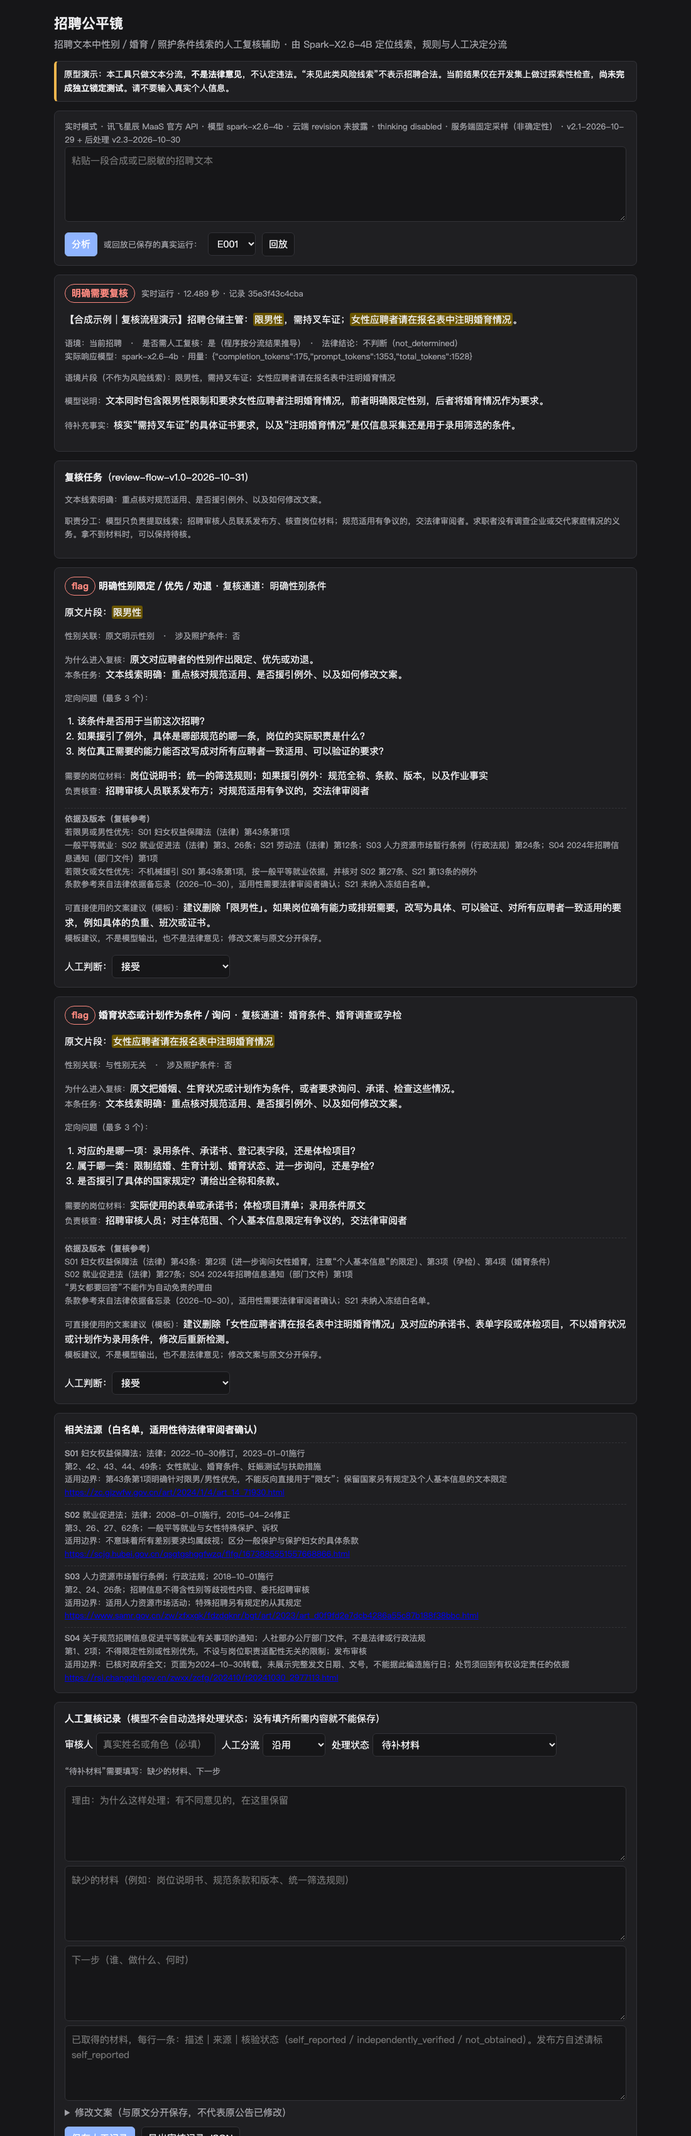
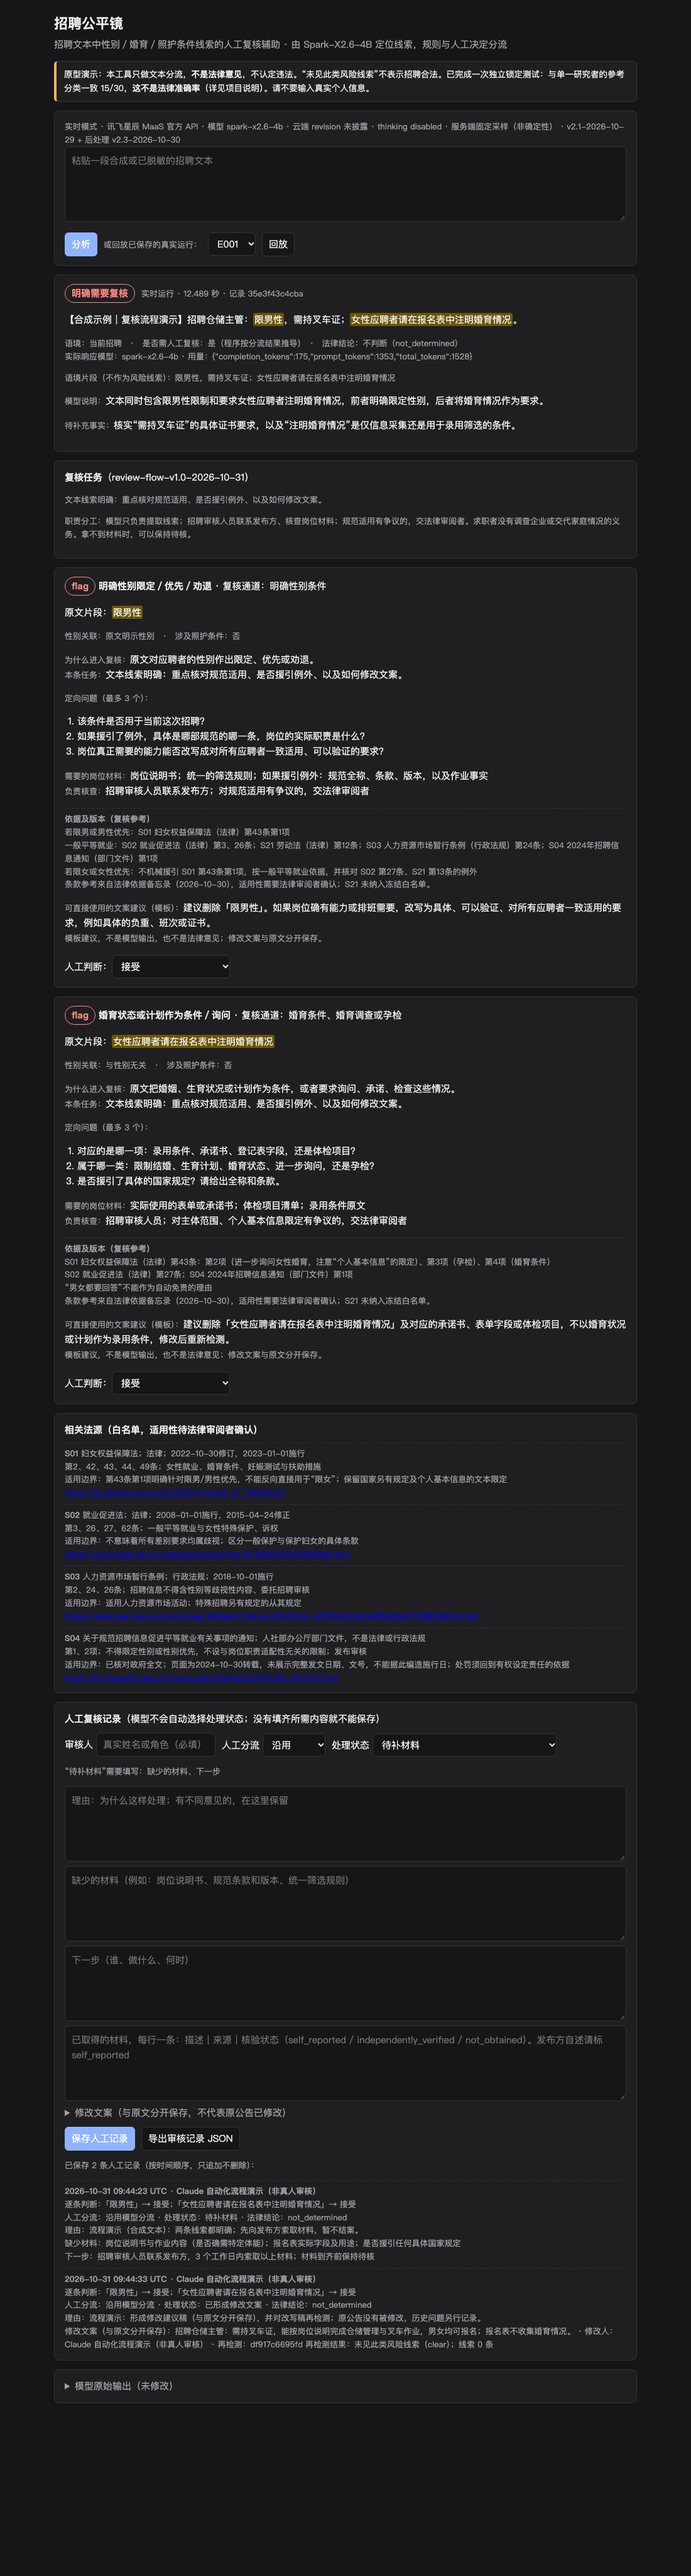
Publish locked-test aggregate results
One-shot locked test on 30 new synthetic cases: 15/30 agreement overall, 0/12 on
the pre-marked disputed cases, 15/18 on the rest, 2 network failures counted in the
denominator; baselines A 10/30, B 13/30. Agreement is with one undergraduate law
researcher's reference with GPT-assisted supporting fields; not legal accuracy.
Case texts, per-case reference labels and dispute records are not published.
Inference, triage and scoring unchanged since the freeze.

Changed region(s): [[0.0618, 0.0, 0.8964, 1.0], [0.6182, 0.5612, 0.68, 0.5924], [0.6182, 0.9041, 0.6491, 0.9353]]

diff --git a/mvp/index.html b/mvp/index.html
@@ -28,7 +28,7 @@ details summary{cursor:pointer;color:var(--muted)}ol{padding-left:20px}
 <main>
 <h1>招聘公平镜</h1>
 <p class="sub">招聘文本中性别／婚育／照护条件线索的人工复核辅助 · 由 Spark-X2.6-4B 定位线索，规则与人工决定分流</p>
-<div class="banner">原型演示：本工具只做文本分流，<b>不是法律意见</b>，不认定违法。“未见此类风险线索”不表示招聘合法。当前结果仅在开发集上做过探索性检查，<b>尚未完成独立锁定测试</b>。请不要输入真实个人信息。</div>
+<div class="banner">原型演示：本工具只做文本分流，<b>不是法律意见</b>，不认定违法。“未见此类风险线索”不表示招聘合法。已完成一次独立锁定测试：与单一研究者的参考分类一致 15/30，<b>这不是法律准确率</b>（详见项目说明）。请不要输入真实个人信息。</div>
 
 <div class="card">
   <div id="mode" class="k">连接中…</div>

diff --git a/scripts/score_locked_test.py b/scripts/score_locked_test.py
@@ -1,0 +1,90 @@
+"""Score the sealed locked-test predictions (protocol docs_v5/LOCKED_TEST_SCORING_PROTOCOL.md v1.1). No model is called.
+
+Inputs: outputs_locked/ (sealed, verified first), docs_v5/private/gold/ (reference labels, private).
+Outputs: docs_v5/private/locked_eval/. Labels are copied without change; the frozen evaluator is reused as is.
+"""
+import csv
+import hashlib
+import json
+import subprocess
+import sys
+from pathlib import Path
+
+ROOT = Path(__file__).resolve().parents[1]
+sys.path.insert(0, str(ROOT))
+from scripts.evaluate_v2 import evaluate, read_jsonl  # noqa: E402
+
+GOLD = ROOT / "docs_v5/private/gold"
+OUT = ROOT / "docs_v5/private/locked_eval"
+LOCKED = ROOT / "outputs_locked"
+SRC = "single_undergraduate_law_researcher_reference_supporting_fields_gpt_assisted"
+DISPUTED = {f"S4-{n:03d}" for n in (1, 3, 10, 11, 13, 17, 20, 22, 25, 26, 28, 29)}  # EVALUATION_POLICY.md
+
+
+def main():
+    subprocess.run([sys.executable, str(ROOT / "scripts/verify_seal.py")], check=True)
+    OUT.mkdir(parents=True, exist_ok=True)
+    gold = list(csv.DictReader(open(GOLD / "locked_gold.csv", encoding="utf-8-sig", newline="")))
+    prov = {p["case_id"]: p for p in json.loads((GOLD / "LABEL_PROVENANCE.json").read_text(encoding="utf-8"))}
+    cases = read_jsonl(LOCKED / "locked_inputs_normalised.jsonl")
+    ids = {c["id"] for c in cases}
+    assert {g["case_id"] for g in gold} == ids and len(gold) == 30, "case_id mismatch"
+    assert {k for k, p in prov.items() if p["disputed"]} == DISPUTED, "policy vs provenance disagree on disputed ids"
+    labels = []
+    for g in gold:
+        care, sex = g["care_condition"] == "true", g["sex_link"]
+        labels.append({"id": g["case_id"], "triage": g["triage"], "review_reason": g["review_reason"], "scope": g["scope"],
+                       "sex_link": sex, "care_condition": care, "risk_quotes": json.loads(g["risk_quotes"]),
+                       "slice": "care" if care and sex == "unestablished" else None,
+                       "disputed": g["case_id"] in DISPUTED, "original_human_triage": prov[g["case_id"]]["original_human_triage"],
+                       "label_source": SRC})
+    (OUT / "labels_converted.jsonl").write_text("".join(json.dumps(x, ensure_ascii=False) + "\n" for x in labels), encoding="utf-8")
+    systems = {"spark": (read_jsonl(LOCKED / "spark_maas/records.jsonl"), False),
+               "baselineA": (read_jsonl(LOCKED / "baselineA/predictions.jsonl"), True),
+               "baselineB": (read_jsonl(LOCKED / "baselineB/records.jsonl"), False)}
+    lat = [r["end_to_end_s"] for r in read_jsonl(LOCKED / "spark_maas/raw.jsonl") if r.get("end_to_end_s") is not None]
+    groups = {"all30": lambda l: True, "disputed12": lambda l: l["disputed"], "other18": lambda l: not l["disputed"]}
+    res = {}
+    for sysname, (preds, legacy) in systems.items():
+        for gname, sel in groups.items():
+            sub = [l for l in labels if sel(l)]
+            ids_sub = {l["id"] for l in sub}
+            rep = evaluate([c for c in cases if c["id"] in ids_sub], sub, [p for p in preds if p["id"] in ids_sub], SRC, legacy,
+                           lat if sysname == "spark" and gname == "all30" else None)
+            res[(sysname, gname)] = rep
+            (OUT / f"eval_{sysname}_{gname}.json").write_text(json.dumps(rep, ensure_ascii=False, indent=1), encoding="utf-8")
+    # case table: separates agreement, network failure, invalid JSON, and disagreement on disputed / undisputed items
+    raw = {r["id"]: r for r in read_jsonl(LOCKED / "spark_maas/raw.jsonl")}
+    pred = {r["id"]: r for r in read_jsonl(LOCKED / "spark_maas/predictions.jsonl")}
+    rec = {r["id"]: r for r in systems["spark"][0]}
+    a = {r["id"]: r.get("status") for r in systems["baselineA"][0]}
+    b = {r["id"]: r["triage"] for r in systems["baselineB"][0]}
+    rows = []
+    for l in labels:
+        i, d = l["id"], rec[l["id"]]
+        if raw[i].get("error"):
+            cat = "network_failure"
+        elif d["triage"] == "invalid":
+            cat = "invalid_output"
+        elif d["triage"] == l["triage"]:
+            cat = "agree"
+        else:
+            cat = "disagree_disputed" if l["disputed"] else "disagree_undisputed"
+        rows.append({"id": i, "disputed": l["disputed"], "reference": l["triage"], "original_human": l["original_human_triage"],
+                     "reference_reason": l["review_reason"], "spark": d["triage"], "spark_reasons": d.get("all_review_reasons"),
+                     "spark_scope": d.get("scope"), "reference_scope": l["scope"], "category": cat, "repairs": pred[i].get("repairs"),
+                     "scope_checks": d.get("scope_checks"), "baselineA": a.get(i), "baselineB": b.get(i), "text": next(c["text"] for c in cases if c["id"] == i),
+                     "spark_quotes": d.get("risk_quotes"), "spark_rationale": d.get("rationale"), "reference_note": prov[i]["note"]})
+    (OUT / "case_table.json").write_text(json.dumps(rows, ensure_ascii=False, indent=1), encoding="utf-8")
+    sums = {p.name: hashlib.sha256(p.read_bytes()).hexdigest() for p in sorted(OUT.glob("*")) if p.suffix in (".json", ".jsonl")}
+    (OUT / "SHA256SUMS.json").write_text(json.dumps(sums, indent=1), encoding="utf-8")
+    # brief
+    for (s, g), r in res.items():
+        m = r["confusion_rows_gold_cols_pred"]
+        agree = sum(m[t][t] for t in ("flag", "review", "clear", "unknown"))
+        q = r["human_review_queue"]
+        print(s, g, f"agree {agree}/{r['n_determinate']}", "valid", round(r["contract_pass_rate"] * r["n_determinate"]), "queue P/R", q["precision"], q["recall"])
+
+
+if __name__ == "__main__":
+    main()

diff --git a/mvp/server.py b/mvp/server.py
@@ -177,7 +177,7 @@ class H(BaseHTTPRequestHandler):
         a["review_cards"] = review_flow.build_cards(a["record"])
         a["sop_care_questions"] = SOP_CARE_QUESTIONS if a["record"].get("care_condition") else []
         a["human_reviews"] = []
-        a["disclaimer"] = "文本分流辅助，不是法律意见；clear 不表示合法；未完成独立锁定测试。"
+        a["disclaimer"] = "文本分流辅助，不是法律意见；clear 不表示合法；一次独立锁定测试与单一研究者参考分类一致 15/30，不是法律准确率。"
         App.analyses[aid] = a
         append("analyses.jsonl", a)
         return self._send(200, a)

diff --git a/README.md b/README.md
@@ -119,7 +119,23 @@ python3 mvp/server.py --replay outputs_v3/maas_v2.1_plus_pp2.3_dev86/records.jso
   - `scripts/run_locked_test.py` 是一次性锁定测试脚本：拒绝带标签的输入，运行后封存预测结果。
 
 ## 8. 结果、证据强度与已知失败
-**以下全部是开发集探索结果，不是法律识别准确率，也不是独立测试成绩。**
+
+### 8.1 独立锁定测试（2026-10-31，已完成）
+**这些数字是与一名法学本科研究者（608）的参考分类的一致率，部分支持字段由 GPT 辅助整理。它们不是法律准确率，也不是律师认证或多专家金标准。**
+
+| 与参考分类一致 | 全部 30 条 | 预先标记的争议 12 条 | 其余 18 条 | 输出有效 |
+|---|---|---|---|---|
+| Spark-X2.6-4B 冻结系统（官方 MaaS API） | **15/30** | **0/12** | **15/18** | 28/30 |
+| 基线 A（原始关键词规则） | 10/30 | 4/12 | 6/18 | 30/30 |
+| 基线 B（修订规则） | 13/30 | 3/12 | 10/18 | 30/30 |
+
+- **2 条网络失败**（没有模型输出）留在分母中，没有重跑。
+- **flag 和 review 存在重要分歧**：参考为 review 的 7 条，系统没有一条判为 review；系统判为 review 的 6 条，参考也都不是 review。
+- 0/12 不能作为认定模型法律判断错误的依据，但也不能全部归因于参考标注：冻结规则把明确线索一律映射为 flag，系统无法表达“文字明确，但仍需先核实”这样的判断，这是系统自身的局限。
+- 流程：评分协议预注册 → 只收到 case_id 和原文 → 运行一次 → 封存预测 → 校验后才打开参考分类。测试之后没有修改系统重测。
+- 测试案例、逐条参考标签和争议记录**未公开**。详见 [docs_v5/LOCKED_TEST_RESULT_SUMMARY.md](docs_v5/LOCKED_TEST_RESULT_SUMMARY.md)。
+
+### 8.2 开发集（探索性，不是法律识别准确率，也不是独立测试成绩）
 
 内部开发集共 86 条合成文本：
 - 50 条原始案例。标签是法学联合研究者授权下的 **AI 辅助研究意见**，没有逐条人工确认。
@@ -141,13 +157,13 @@ python3 mvp/server.py --replay outputs_v3/maas_v2.1_plus_pp2.3_dev86/records.jso
   - “欢迎女性申请”会被误报。
   - 模型偶尔不填写待补充事实。
   - MaaS 随机采样容易导致 JSON 格式错误：原始输出 13/86 无效，修复后剩 1/86。
-- **尚未完成**：独立锁定测试（30 条新合成案例，由 608 出题并给出参考分类；评分协议已在收到测试输入前预注册，见 `docs_v5/LOCKED_TEST_SCORING_PROTOCOL.md`），以及真实用户研究。
+- **尚未完成**：真实用户研究。
 - **原型局限**：没有多人协作和权限；联系发布方需要线下进行；证据只能以文字登记；文案建议是模板；冻结的 source_ids 只细化到法律文件这一级（条款级参考只在复核卡里提供，不参与评分）。
 
 ## 9. 法律工作的三个层次（需要区分清楚）
 1. **已经完成**：法学联合研究者整理了法律依据和法源索引，识别了争议点，提出了标注规则、人工复核流程和照护责任专题意见，并与项目负责人讨论确认了主要规则，例如“照护责任不等于女性”“角色或声部不等于应聘者性别限定”。
 2. **AI 辅助、尚未逐条人工核实**：50 条研究标签是在她授权下由 AI 初审形成的，不是法律专家金标准。
-3. **尚未完成**：独立锁定测试的人工标注和评估。完成后会如实更新。
+3. **独立锁定测试**：已完成一次，608 独立编写 30 条合成案例并给出参考分类（GPT 辅助生成公告、整理支持字段；单一本科研究者参考，没有多专家一致，也没有律师审定）。
 
 ## 10. 公开范围说明
 法学联合研究者（608）**已授权公开**以下内容，本仓库均已包含：
@@ -160,12 +176,12 @@ python3 mvp/server.py --replay outputs_v3/maas_v2.1_plus_pp2.3_dev86/records.jso
 - 50 条 AI 辅助研究标签
 - 16 条回归样例原文
 - 法学研究意见和专题备忘
-- 本轮锁定测试的材料，计划在测试完成、预测封存之后，再评估是否公开
+- 本轮锁定测试的案例、逐条参考标签和争议记录（测试已完成，是否公开由团队另行决定）
 
 仓库中的原始日志是**过滤版**：删除了回归样例所在的行，替换了本机路径，其余内容逐字保留。详见 [RELEASE_NOTE.txt](RELEASE_NOTE.txt) 和 [docs_v4/PUBLIC_PERMISSIONS.md](docs_v4/PUBLIC_PERMISSIONS.md)。
 
 ## 11. 贡献者与 AI 辅助开发披露
-- **项目负责人**：负责产品、AI 技术、工程验收、实验设计与最终提交。
+- **项目负责人（GitHub：[yangmengze608-afk](https://github.com/yangmengze608-afk)）**：负责产品、AI 技术、工程验收、实验设计与最终提交。
 - **法学联合研究者（公开署名：608）**：负责法律依据与法源核实、争议识别、标注规则与分流原则设计、人工复核 SOP、案例分析、法律边界与产品设计讨论，以及独立锁定测试的出题与人工首轮判断。
 - **AI 辅助工具**：
   - Claude Code（Anthropic）编写并运行了工程代码、评估脚本、网页和文档，也执行了 Demo 截图中的流程操作。
@@ -175,7 +191,7 @@ python3 mvp/server.py --replay outputs_v3/maas_v2.1_plus_pp2.3_dev86/records.jso
 ## 12. 目录
 ```
 rfl/            契约与校验（contract_v2）、Prompt（prompt_v2_1）、Provider（providers）、后处理（postprocess_v2_3）
-scripts/        运行（run_provider / run_spark_v2）、评估（evaluate_v2）、冻结、锁定测试、封存校验、打包
+scripts/        运行（run_provider / run_spark_v2）、评估（evaluate_v2）、冻结、锁定测试、封存校验、评分
 mvp/            单页网页（index.html）与本地服务端（server.py）
 baseline/       基线 A（原始关键词规则）、基线 B（修订规则 rules_v2）
 data/ data_v2/  合成开发样本输入（已过滤未授权样例）、法源白名单（已授权）

diff --git a/docs_v5/LOCKED_TEST_RESULT_SUMMARY.md b/docs_v5/LOCKED_TEST_RESULT_SUMMARY.md
@@ -1,0 +1,27 @@
+# 独立锁定测试 · 结果汇总（公开版）
+
+**这些数字是与一名法学本科研究者（608）的参考分类的一致率，部分支持字段由 GPT 辅助整理。它们不是法律准确率，也不是律师认证或多专家金标准。**
+
+测试案例、逐条参考标签和争议记录未公开。
+
+| 与参考分类一致 | 全部 30 条 | 预先标记的争议 12 条 | 其余 18 条 | 输出有效 |
+|---|---|---|---|---|
+| Spark-X2.6-4B 冻结系统（官方 MaaS API） | **15/30** | **0/12** | **15/18** | 28/30 |
+| 基线 A（原始关键词规则） | 10/30 | 4/12 | 6/18 | 30/30 |
+| 基线 B（修订规则，在开发集可见的条件下编写） | 13/30 | 3/12 | 10/18 | 30/30 |
+
+- **2 条网络失败**：连接被重置，没有模型输出。这 2 条留在分母中计为 invalid，没有重跑。
+- **人工复核队列**（TP/FP/FN，非 clear 都算进队列）：Spark 16/5/0，其中 2 条是网络失败转人工，模型实际发现 14/16；基线 A 2/4/14；基线 B 4/3/12。这个指标不是歧视识别率。
+- **flag 和 review 存在重要分歧**：参考为 review 的 7 条，系统没有一条判为 review；系统判为 review 的 6 条，参考也都不是 review。
+
+## 流程
+评分协议在收到测试输入前预注册（`LOCKED_TEST_SCORING_PROTOCOL.md` v1.1）→ 执行方只收到 case_id 和原文 → 冻结系统运行一次 → 封存预测并登记哈希 → 校验之后才打开参考分类。与 86 条开发集精确重复 0 条。测试之后没有修改系统重测。
+
+## 如何理解 0/12
+争议案例不能作为认定模型法律判断错误的依据，但这个结果也不能全部归因于参考标注：
+- 11 条有输出的争议案例上，系统和研究者的判断都不一致。主要分歧有四类：明确限制文字该判 flag 还是 review（5 条）；照护条件是否算复核任务（3 条）；声称例外的条件怎样分流（2 条）；语境暗示（1 条）。另外 1 条是网络失败。
+- **系统自身的局限是真实的**：冻结规则把明确线索一律映射为 flag，系统无法表达“文字明确，但仍需先核实”这样的判断；系统在这批案例上的 review 与参考完全没有重合。如果采用研究者的口径，现有规则需要修改，修改后这 30 条只能算开发集。
+- 哪一方的分流更合适，这次测试没有结论。
+
+## 局限
+只有 30 条合成案例，单次运行，云端采样有随机性。参考来自单一研究者，没有多专家一致，也没有律师审定。没有真实用户研究。

diff --git a/docs_v5/LOCKED_TEST_RUN_RECORD.md b/docs_v5/LOCKED_TEST_RUN_RECORD.md
@@ -1,0 +1,16 @@
+# 锁定测试运行记录（封存阶段）
+
+状态：**预测已封存，尚未打开参考答案，尚未计算任何一致率。**
+
[1 lines of base64/hex data omitted]
+- 与开发集的重复：对照完整 86 条开发集，精确重复 0 条，去空白后重复 0 条。
+- 运行：2026-10-31 12:01:48–12:12:37 UTC，只运行一次。运行前用一条无关的合成文本（PREFLIGHT1）检查过命令链路，这条不属于测试。
+- 冻结系统：Prompt v2.1（`62a40a7f…`）+ 后处理 v2.3 + 契约 v2 + `xfyun_maas` `spark-x2.6-4b`。运行器启动时自动核对冻结哈希，通过。
+- HTTP 请求共 38 次；成功返回的 28 条，响应模型都是 `spark-x2.6-4b`。
+- 重试：S4-006（2 次失败后成功）、S4-011（1 次失败后成功）、S4-030（1 次失败后成功）。
+- **请求失败 2 条**：S4-005、S4-025。三次请求都是网络连接被重置（`URLError: Errno 54 Connection reset by peer`），模型没有返回内容。按评分协议计为 invalid，留在分母中，不重跑。
+- 后处理修复：重复逗号 1 处。
+- 延迟（成功的 28 条）：中位数 7.7 秒，P95 29.8 秒，最长 98.6 秒。这段时间网络明显不稳定。
+- 用量：输入 38,059 token，输出 4,193 token。
[1 lines of base64/hex data omitted]
+- 记录上的局限：失败的 2 条，三次请求的细节只保留了最后一次的错误和总次数（`n_attempts: 3`），没有逐次记录。这是 Provider 的现有行为，冻结后未修改。

diff --git a/docs_v5/LOCKED_TEST_FREEZE_RECORD.md b/docs_v5/LOCKED_TEST_FREEZE_RECORD.md
@@ -11,10 +11,10 @@
[1 lines of base64/hex data omitted]
 | 模型标识和服务版本的可见程度 | 讯飞星辰 MaaS，`spark-x2.6-4b`；每次响应都会核对 `model` 字段；**云端 revision、精度、硬件均未披露** |
 | 参数 | `thinking.type=disabled`，`max_completion_tokens=640`，`stream=false`；服务端固定 T=1、top_p=0.95（结果有随机性） |
-| 调用时间 | 待填（执行时写入 `outputs_locked/spark_maas/run_meta.json`） |
+| 调用时间 | 2026-10-31 12:01:48–12:12:37 UTC（一次） |
 | 重试和失败策略 | Provider 内置：5xx 和 QPS、TPM 类 429 最多重试 2 次（间隔 2 秒、4 秒）；当日额度用完（11201）不重试；超时 90 秒；调用上限为 3×N+5 次；无效输出计为 invalid，不手动重跑 |
-| 输入哈希 | 待填（由负责人登记 `locked_cases.csv` 的 SHA-256） |
-| gold 保管人和锁定时间 | 待填（法学联合研究者 608 或项目负责人） |
[1 lines of base64/hex data omitted]
+| gold 保管和解封 | 由项目负责人保管；预测封存（`ba921399…7397`）校验通过后，于 2026-10-31 解封给比较方。gold 未公开 |
[1 lines of base64/hex data omitted]
 | 开发集重合核查 | 运行器在执行前，对照完整的 86 条开发集做精确比对和去空白比对 |
 

diff --git a/docs_v4/DEMO_RECORDING_SCRIPT.md b/docs_v4/DEMO_RECORDING_SCRIPT.md
@@ -4,7 +4,7 @@
 
 ## 录制前准备（不进画面）
 1. 关掉无关的程序和浏览器标签，打开勿扰模式。画面里不要出现终端中的 Key、浏览器书签或聊天记录。
-2. 如果已经轮换 Key：新 Key 写入 `~/.config/rfl/xfyun_api_key`（`chmod 600`）。
+2. Key 使用现有本地配置。
 3. 启动服务：
 ```bash
 cd rfl_stage1 && python3 mvp/server.py --provider xfyun_maas --replay outputs_v3/maas_v2.1_plus_pp2.3_dev86/records.jsonl --replay-raw outputs_v3/maas/dev86_v2.1_raw/raw.jsonl
@@ -39,7 +39,7 @@ cd rfl_stage1 && python3 mvp/server.py --provider xfyun_maas --replay outputs_v3
 ## 3:40–4:20 结尾：局限与诚实说明
 - 画面：切到 `docs_v4/DEMO_WALKTHROUGH.md` 或失败日志。
 - 口播要点：
-  - 现有的一致率数字（例如 78/86）来自开发集，标签是 AI 辅助的研究意见，**不是法律准确率**。独立的锁定测试由法学联合研究者出题，状态是【未完成 / 已完成，填写真实结果】。
+  - 现有的一致率数字（例如 78/86）来自开发集，标签是 AI 辅助的研究意见，**不是法律准确率**。独立锁定测试已完成一次：与单一研究者的参考分类一致 15/30，争议 12 条 0/12，其余 18 条 15/18，有 2 条网络失败。这也不是法律准确率。
   - 云端模型偶尔会输出格式错误的 JSON。程序只做有记录的修复，修复不了就交给人工，绝不当作“没问题”。
   - 团队有两位真人成员：负责人和法学联合研究者。Claude 和 ChatGPT 是开发辅助工具，不是团队成员。
 

diff --git a/docs_v4/PUBLIC_PERMISSIONS.md b/docs_v4/PUBLIC_PERMISSIONS.md
@@ -1,4 +1,4 @@
-# 公开权限记录（2026-10-31 更新，公开策略 v2）
+# 公开权限记录（2026-11-01 更新，公开策略 v2）
 
 法学联合研究者在公开场合署名“608”。她的真实姓名不写入任何公开文件。以下授权由项目负责人于 2026-10-31 转达。
 
@@ -11,5 +11,5 @@
 | 50 条 AI 辅助研究标签 | 未授权（分阶段公开） | 不公开；含这些标签的评估报告也一并排除 |
 | 16 条回归样例 R001–R016 | 未授权（分阶段公开） | 不公开；所有日志里这些行都已删除 |
 | 法学研究意见、专题备忘、检索日志、决策记录、法学交接包原件 | 未授权 | 不公开；打包脚本会与原文逐段比对，有重合就中止 |
-| 本轮锁定测试（30 条案例、参考分类、争议记录） | 测试完成、预测封存之前一律不公开 | 不在任何公开文件中；测试结束后再评估是否公开 |
+| 本轮锁定测试（30 条案例、逐条参考分类、争议记录） | 未公开；经项目负责人确认，只公开汇总结果 | 打包时逐段比对，出现任何案例原文或参考说明就中止 |
 | 研究者的真实姓名、学校、个人主页 | 只公开署名“608” | 主页链接保留待填，未经确认不填写 |
